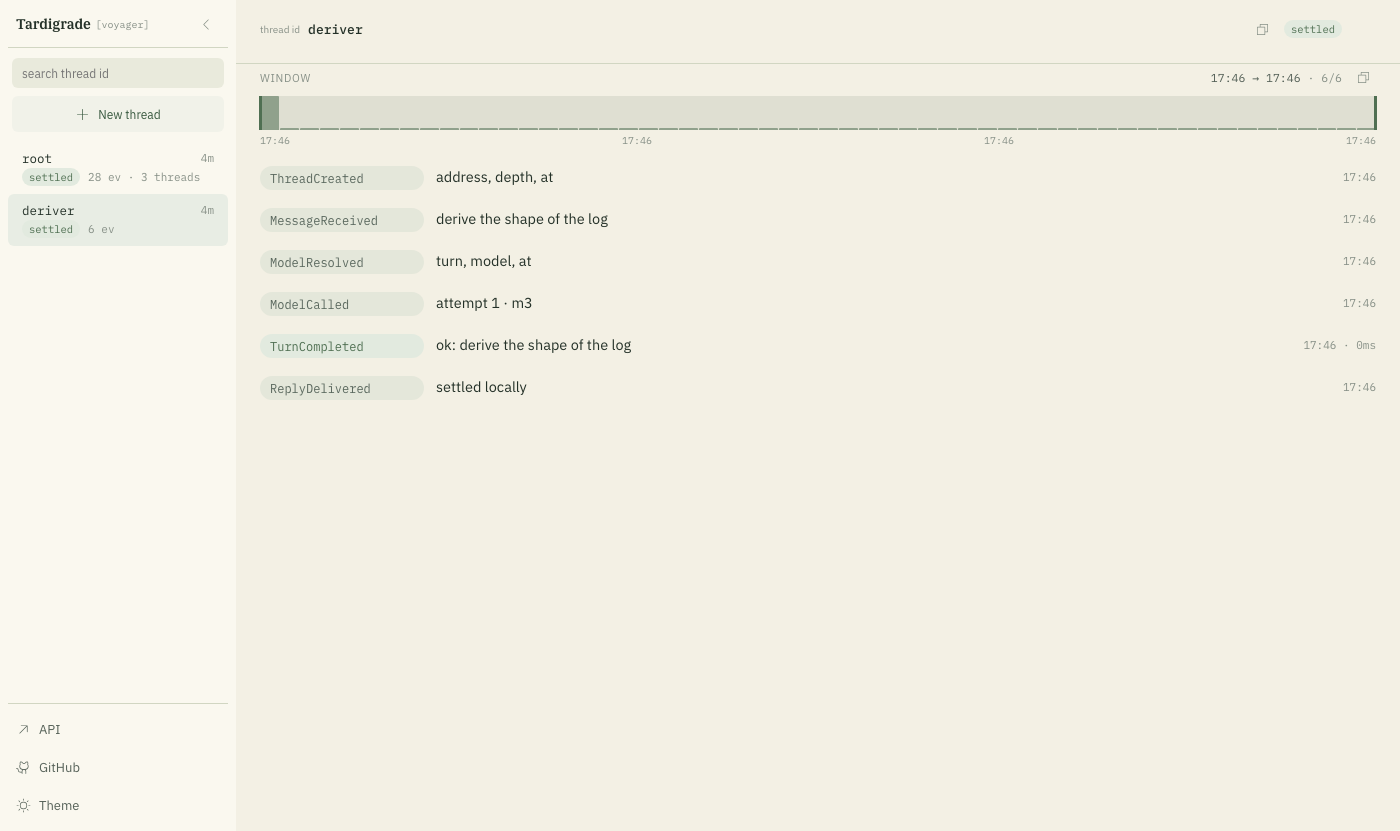
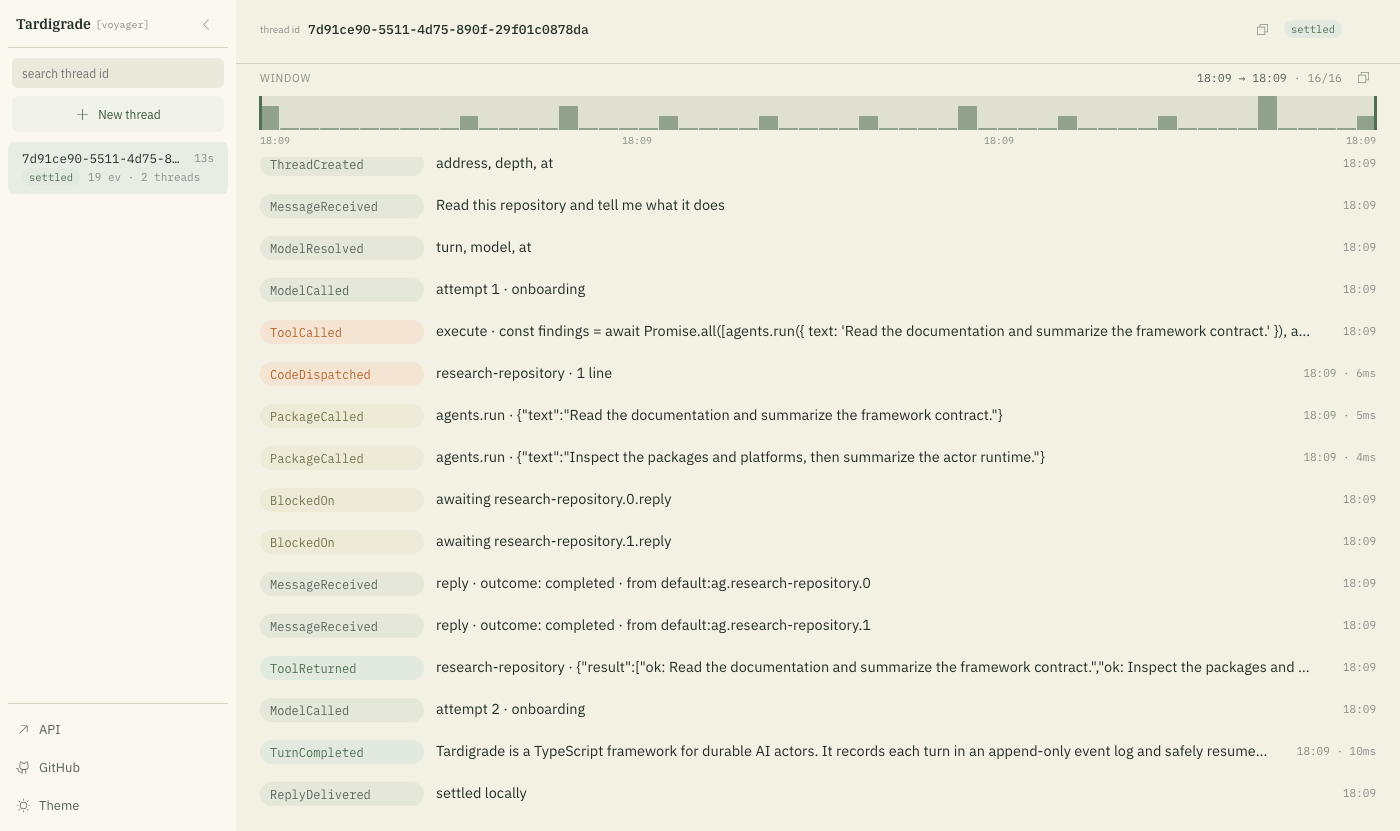
docs(voyager): show onboarding trace (#263)

diff --git a/apps/voyager/dev/fixture.ts b/apps/voyager/dev/fixture.ts
@@ -30,6 +30,15 @@ if (!Number.isSafeInteger(FIXTURE_PORT) || FIXTURE_PORT < 1 || FIXTURE_PORT > 65
 // shape, and this is the number that gives it one.
 export const FIXTURE_FANOUT = 3
 
+// ONBOARDING_BRIEF is the prompt Voyager suggests on an empty actor (src/Quickstart.tsx).
+export const ONBOARDING_BRIEF = "Read this repository and tell me what it does"
+
+// ONBOARDING_THREAD keeps the captured development trace stable across fixture runs.
+export const ONBOARDING_THREAD = "7d91ce90-5511-4d75-890f-29f01c0878da"
+
+// ONBOARDING_FINDINGS is the answer shown after the fixture researches the repository in parallel.
+export const ONBOARDING_FINDINGS = "Tardigrade is a TypeScript framework for durable AI actors. It records each turn in an append-only event log and safely resumes work across Bun, Cloudflare Workers, and Celld."
+
 // The prefix a brief carries to ask the scripted mind to spawn rather than answer.
 export const SPAWN_BRIEF = "spawn "
 
@@ -41,17 +50,29 @@ const briefOf = (trajectory: ReadonlyArray<Event>): string => {
   return ""
 }
 
-// The scripted mind answers a plain brief in one attempt, and answers a `spawn <name>` brief by
-// running one execution that briefs FIXTURE_FANOUT children and reporting what they said. The tool
-// call id is the brief's own name, so the children's ids are stated by the caller rather than by a
-// counter (packages/agent/src/spawn.ts, `sibling`).
+// The scripted mind researches the onboarding brief through two child threads. A `spawn <name>`
+// brief keeps the same development seam available for arbitrary forests. The tool call id is the
+// brief's own name, so the children's ids are stated by the caller rather than by a counter
+// (packages/agent/src/spawn.ts, `sibling`).
 const scripted = ({ trajectory }: InferRequest): Action => {
   const brief = briefOf(trajectory)
-  if (!brief.startsWith(SPAWN_BRIEF)) return { kind: "complete", output: `ok: ${brief}` }
   const start = trajectory.reduce((n, event, i) => (event.type === "MessageReceived" ? i : n), 0)
   const returned = trajectory.slice(start).find((event) => event.type === "ToolReturned") as
     | { result?: { result?: unknown } }
     | undefined
+  if (brief === ONBOARDING_BRIEF) {
+    if (returned !== undefined) return { kind: "complete", output: ONBOARDING_FINDINGS }
+    return {
+      kind: "call",
+      callId: "research-repository",
+      name: "execute",
+      arguments: {
+        summary: "Research the repository in parallel and synthesize its architecture.",
+        code: "const findings = await Promise.all([agents.run({ text: 'Read the documentation and summarize the framework contract.' }), agents.run({ text: 'Inspect the packages and platforms, then summarize the actor runtime.' })]); return findings.map((finding) => finding.output);"
+      }
+    }
+  }
+  if (!brief.startsWith(SPAWN_BRIEF)) return { kind: "complete", output: `ok: ${brief}` }
   if (returned !== undefined) return { kind: "complete", output: JSON.stringify(returned.result?.result ?? null) }
   return {
     kind: "call",
@@ -85,9 +106,7 @@ const app = Layer.provideMerge(serve({ disableLogger: true }), [
 // The briefs the fixture delivers at boot, so the UI has a forest before anyone types anything. The
 // server dedups by message id, so re-running a brief costs nothing (apps/server/src/host.ts).
 export const FIXTURE_BRIEFS: ReadonlyArray<{ readonly thread: string; readonly id: string; readonly text: string }> = [
-  { thread: "root", id: "m1", text: `${SPAWN_BRIEF}survey` },
-  { thread: "root", id: "m2", text: "summarize the survey" },
-  { thread: "deriver", id: "m3", text: "derive the shape of the log" }
+  { thread: ONBOARDING_THREAD, id: "onboarding", text: ONBOARDING_BRIEF }
 ]
 
 const post = (thread: string, body: unknown) =>
